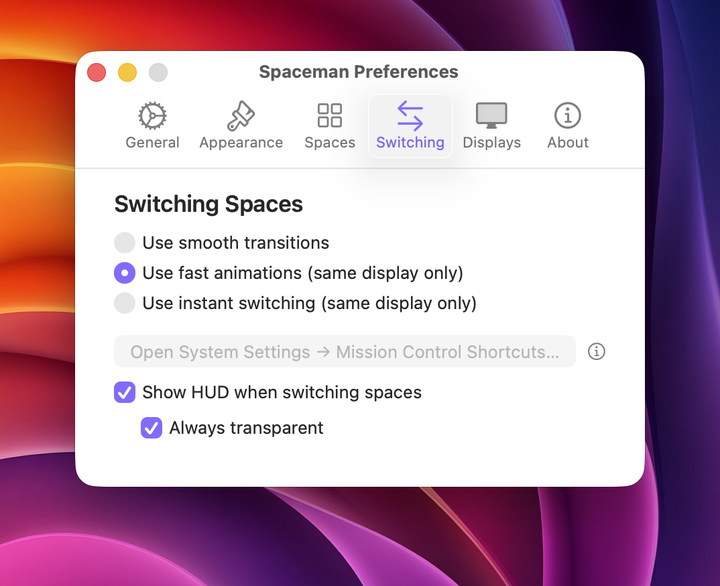
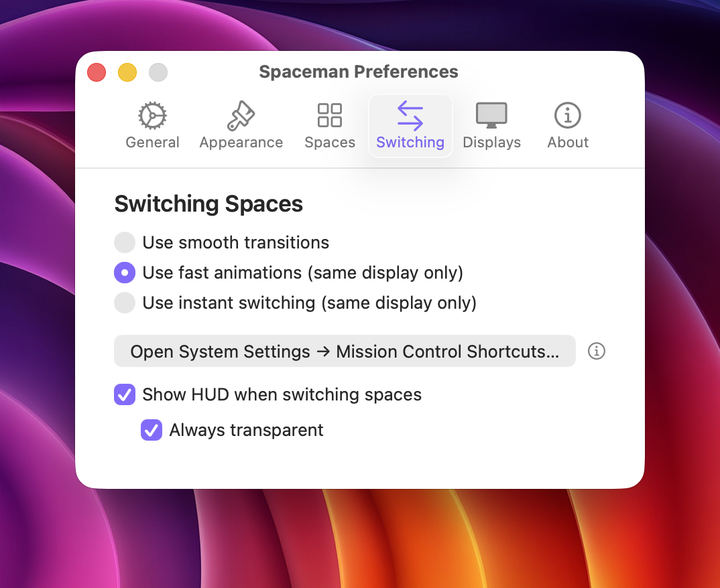
Updated README and images

diff --git a/README.md b/README.md
@@ -164,10 +164,10 @@ Spaceman's preferences are organized into six tabs: **General**, **Appearance**,
 
 ### Displays Tab
 
-<img src="images/Preferences-Displays-2.png" width="66%" height="auto">
+<img src="images/Preferences-Displays-3.png" width="66%" height="auto">
 
-- **Show main display only**: When using multiple displays, only show spaces from the main display in the menu bar
 - **Restart space numbering by display**: For each display, Space numbering starts at 1, instead of using continuous numbering
+- **Show main display only**: When using multiple displays, only show spaces from the main display in the menu bar
 - **When displays are side by side**: Use macOS display order or reverse it
 - **When displays are stacked**: macOS standard is to sort displays by the X coordinate of their center. This option enables sorting by Y coordinate
 - **Open System Settings → Displays**: Opens the System Settings panel for Displays. Click [Arrange] to adjust the arrangement of the displays
@@ -238,7 +238,7 @@ Some appearance settings are also available directly from this menu.
 
 <img src="images/Menu-6.png" width="auto" height="auto">
 
-<img src="images/Menu-Grid-3.png" width="auto" height="auto">
+<img src="images/Menu-Grid-4.png" width="auto" height="auto">
 
 **Quick Rename Current Space**
 - Rename the current space on the fly via the right-click menu ("Rename Current Space…") or a configurable keyboard shortcut